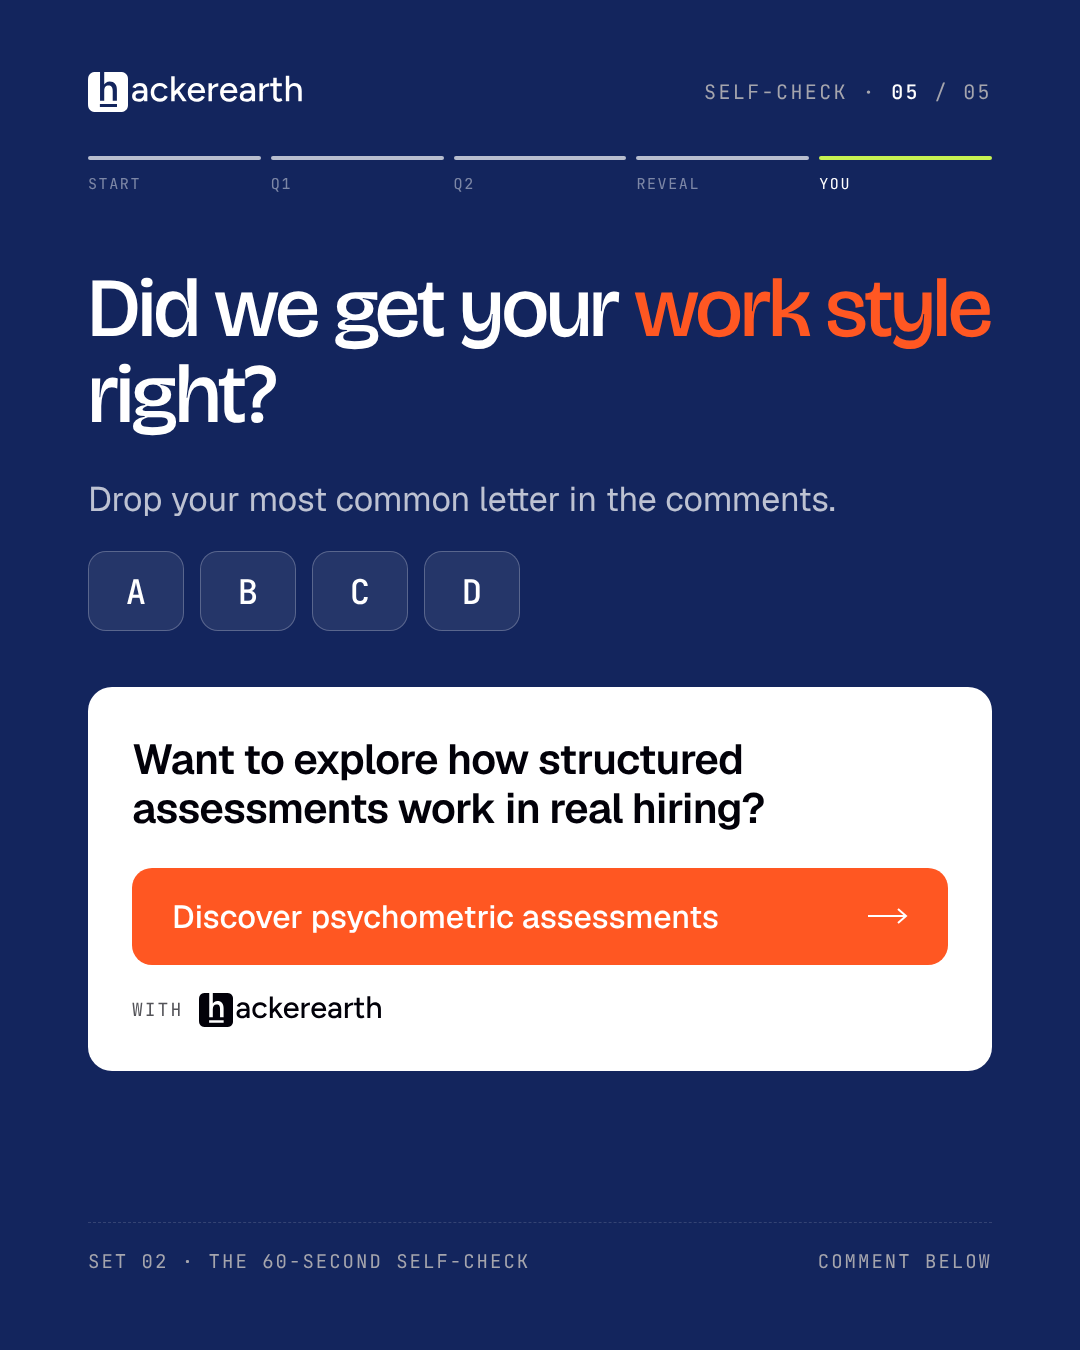
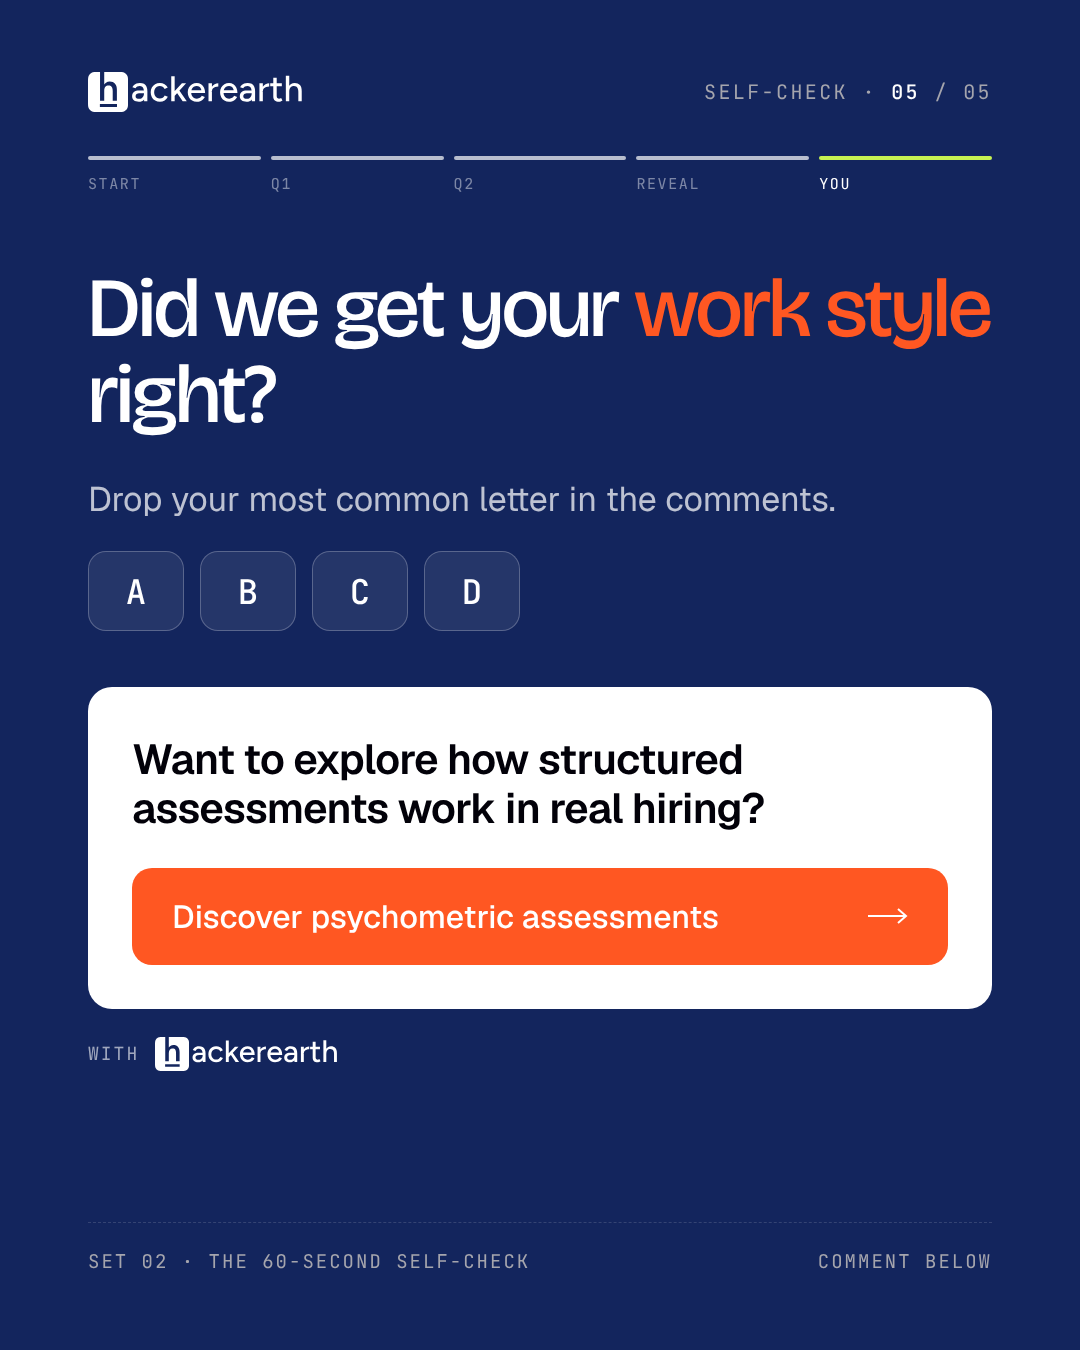
Carousel: move 'with HackerEarth' below the CTA card
Claude-Session: https://claude.ai/code/session_011WvSfd7jShGBWHTo2t24v1

Changed region(s): [[0.0611, 0.7156, 0.9167, 0.8089]]

diff --git a/instagram-carousels/set-2-60-second-self-check/carousel.html b/instagram-carousels/set-2-60-second-self-check/carousel.html
@@ -161,8 +161,8 @@
   .promo { margin-top: 56px; background: var(--accent); color: #fff; border-radius: 24px; padding: 48px 44px 44px; }
   .promo h3 { font-family: var(--body); font-weight: 600; font-size: 42px; line-height: 1.15; letter-spacing: -0.8px; }
   .promo .btn-cta { margin-top: 36px; width: 100%; justify-content: space-between; }
-  .promo .with { margin-top: 28px; display: flex; align-items: center; gap: 16px; font-family: var(--mono); font-size: 18px; letter-spacing: 2px; text-transform: uppercase; color: rgba(255,255,255,0.6); }
-  .promo .with img { height: 34px; }
+  .with { margin-top: 28px; display: flex; align-items: center; gap: 16px; font-family: var(--mono); font-size: 18px; letter-spacing: 2px; text-transform: uppercase; color: rgba(255,255,255,0.6); }
+  .with img { height: 34px; }
 
   /* ===== Navy theme — component overrides on blue slides ===== */
   .dark .progress-track span { background: rgba(255,255,255,0.18); }
@@ -176,7 +176,6 @@
   .dark .note p, .dark.s5 .ask { color: rgba(255,255,255,0.72); }
   .dark .start-card { background: rgba(255,255,255,0.05); border-color: rgba(255,255,255,0.12); }
   .dark .promo { background: var(--bg-card); color: var(--text); }
-  .dark .promo .with { color: var(--text-muted); }
 </style>
 </head>
 <body>
@@ -329,8 +328,8 @@
       <div class="promo">
         <h3>Want to explore how structured assessments work in real hiring?</h3>
         <div class="btn-cta">Discover psychometric assessments <svg width="40" height="16"><use href="#arrow"/></svg></div>
-        <div class="with">with <img src="../../Logo%20Dark.svg" alt="HackerEarth"></div>
       </div>
+      <div class="with">with <img src="../../Logo-Light.svg" alt="HackerEarth"></div>
     </div>
 
     <footer class="foot"><span>Set 02 · The 60-second self-check</span><span>Comment below</span></footer>
